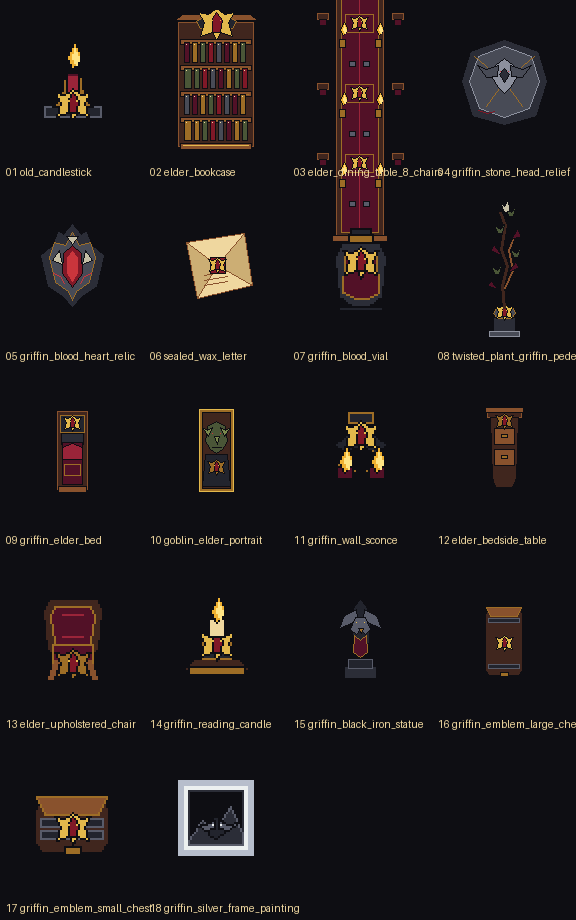
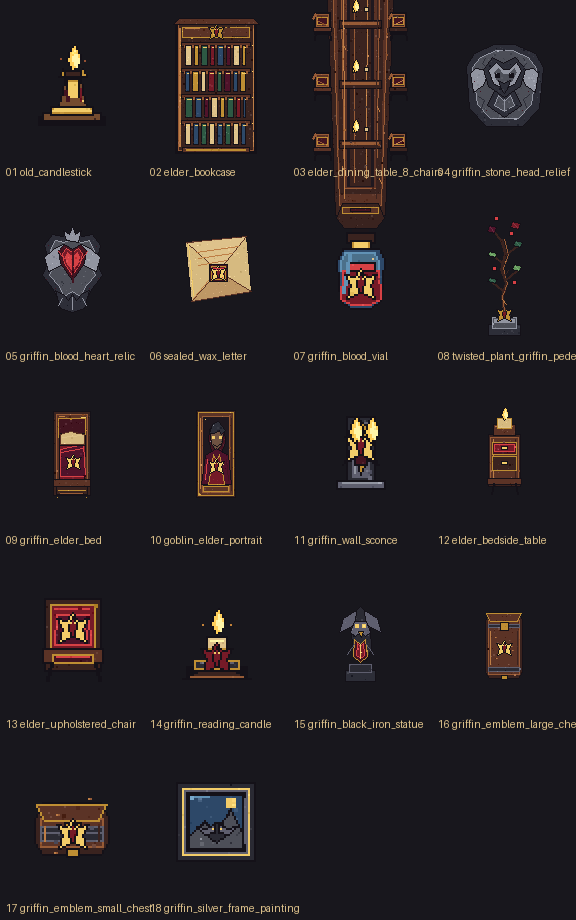
feat: improve elder room pixel assets

diff --git a/assets/map/rpg_maker/elder_room/_generate_elder_room.py b/assets/map/rpg_maker/elder_room/_generate_elder_room.py
@@ -1,4 +1,5 @@
 from pathlib import Path
+import random
 from PIL import Image, ImageDraw, ImageFont
 
 OUT = Path(__file__).parent
@@ -34,6 +35,53 @@ def poly(d, points, fill, outline=None, width=1):
 def pixel(d, x, y, fill):
     rect(d, (x, y, x, y), fill)
 
+def color_shift(color, amount):
+    return tuple(max(0, min(255, channel + amount)) for channel in color[:3]) + (color[3],)
+
+def pixel_texture(im, seed, density=0.14):
+    """Add deterministic clustered material pixels while preserving outlines and symbols."""
+    rng = random.Random(seed)
+    px = im.load()
+    w, h = im.size
+    clusters = max(10, int(w * h * density / 6))
+    for _ in range(clusters):
+        x = rng.randrange(w)
+        y = rng.randrange(h)
+        base = px[x, y]
+        if base[3] == 0:
+            continue
+        if max(base[:3]) < 48 or sum(base[:3]) < 100:
+            continue
+        size = 1 if rng.random() < 0.78 else 2
+        delta = rng.choice((-22, -16, -11, 10, 16, 23))
+        shade = color_shift(base, delta)
+        for oy in range(size):
+            for ox in range(size):
+                tx, ty = x + ox, y + oy
+                if tx < w and ty < h and px[tx, ty][3] > 0 and max(px[tx, ty][:3]) >= 48:
+                    px[tx, ty] = shade
+    return im
+
+def material_glints(im, seed):
+    """Place sparse one-to-three pixel glints on solid pixels for a hand-pixeled finish."""
+    rng = random.Random(seed + 991)
+    px = im.load()
+    w, h = im.size
+    for _ in range(max(5, (w * h) // 180)):
+        x = rng.randrange(w)
+        y = rng.randrange(h)
+        base = px[x, y]
+        if base[3] == 0 or sum(base[:3]) < 150:
+            continue
+        if rng.random() < 0.6:
+            px[x, y] = color_shift(base, rng.choice((24, 32, 40)))
+        if rng.random() < 0.35 and x + 1 < w and px[x + 1, y][3] > 0:
+            px[x + 1, y] = color_shift(base, 18)
+    return im
+
+def render_asset(fn, seed):
+    return material_glints(pixel_texture(fn(), seed), seed)
+
 def flame(d, x, y):
     poly(d, [(x, y + 8), (x + 2, y + 2), (x + 4, y), (x + 7, y + 5), (x + 6, y + 10), (x + 3, y + 13)], C["flame"], C["ink"])
     poly(d, [(x + 3, y + 8), (x + 4, y + 3), (x + 6, y + 8), (x + 5, y + 11)], C["flame_hi"])
@@ -47,25 +95,27 @@ def griffin_emblem(d, cx, cy, color=None):
 def draw_candlestick():
     im = canvas(48, 48); d = ImageDraw.Draw(im)
     rect(d, (7, 39, 40, 43), C["ink"]); rect(d, (9, 37, 38, 41), C["bronze"], C["ink"]); rect(d, (13, 34, 34, 38), C["gold"], C["ink"])
+    rect(d, (15, 35, 32, 36), C["gold_hi"]); pixel(d, 11, 40, C["bronze"]); pixel(d, 35, 40, C["wood_dark"])
     poly(d, [(17, 34), (19, 27), (20, 19), (28, 19), (29, 27), (31, 34)], C["bronze"], C["ink"])
-    rect(d, (21, 20, 27, 29), C["gold"], C["ink"]); rect(d, (22, 22, 26, 29), C["gold_hi"])
+    rect(d, (21, 20, 27, 29), C["gold"], C["ink"]); rect(d, (22, 22, 26, 29), C["gold_hi"]); line(d, [(20, 26), (21, 31)], C["red_dark"], 2); line(d, [(28, 25), (28, 31)], C["red"])
     poly(d, [(17, 19), (19, 15), (21, 17), (24, 14), (27, 17), (29, 15), (31, 19)], C["gold"], C["ink"])
     rect(d, (20, 16, 28, 19), C["wood_dark"], C["ink"]); flame(d, 21, 3); pixel(d, 18, 10, (190, 100, 57, 190)); pixel(d, 30, 11, (190, 100, 57, 190))
-    line(d, [(14, 36), (33, 36)], C["gold_hi"])
+    line(d, [(14, 36), (33, 36)], C["gold_hi"]); pixel(d, 18, 32, C["bronze"]); pixel(d, 29, 31, C["gold_hi"])
     return im
 
 def draw_bookcase():
     im = canvas(96, 144); d = ImageDraw.Draw(im)
     rect(d, (7, 7, 88, 139), C["ink"]); rect(d, (10, 10, 85, 136), C["wood_dark"], C["wood_hi"]); poly(d, [(5, 10), (11, 4), (85, 4), (91, 10)], C["wood"], C["ink"])
     rect(d, (14, 13, 81, 23), C["wood"], C["gold"]); griffin_emblem(d, 48, 18)
+    line(d, [(17, 14), (31, 14)], C["wood_light"]); line(d, [(64, 22), (78, 22)], C["wood_dark"])
     for y in (28, 54, 80, 106): rect(d, (13, y, 82, y + 4), C["wood"], C["ink"]); rect(d, (16, y + 3, 79, y + 5), C["wood_hi"])
     colors = [C["red"], C["blue"], C["gold"], C["leaf"], C["wine"], C["cream"]]
     for row, (y0, y1) in enumerate(((31, 51), (57, 77), (83, 103), (109, 130))):
         x = 17
         while x < 77:
             width = [5, 6, 4, 7][(x + row) % 4]; col = colors[(x + row * 2) % len(colors)]
-            rect(d, (x, y0, min(x + width, 77), y1), col, C["ink"]); line(d, [(x + 2, y0 + 2), (min(x + width - 1, 77), y0 + 2)], C["gold_hi"]); x += width + 3
-    rect(d, (14, 133, 81, 138), C["wood"], C["ink"]); rect(d, (18, 135, 77, 136), C["gold"]); line(d, [(11, 14), (11, 132)], C["wood_light"]); line(d, [(85, 14), (85, 132)], C["wood_light"])
+            rect(d, (x, y0, min(x + width, 77), y1), col, C["ink"]); line(d, [(x + 2, y0 + 2), (min(x + width - 1, 77), y0 + 2)], C["gold_hi"]); pixel(d, x, y1 - 2, C["wood_dark"]); x += width + 3
+    rect(d, (14, 133, 81, 138), C["wood"], C["ink"]); rect(d, (18, 135, 77, 136), C["gold"]); line(d, [(11, 14), (11, 132)], C["wood_light"], 2); line(d, [(85, 14), (85, 132)], C["wood_light"])
     for y in (29, 55, 81, 107): pixel(d, 12, y + 2, C["gold_hi"]); pixel(d, 84, y + 2, C["gold_hi"])
     return im
 
@@ -77,100 +127,145 @@ def chair(d, x, y, color=None):
 def draw_dining_table():
     im = canvas(96, 336); d = ImageDraw.Draw(im); rect(d, (40, 13, 56, 322), (30, 22, 25, 150))
     poly(d, [(22, 15), (74, 15), (83, 26), (73, 297), (23, 297), (13, 26)], C["wood_dark"], C["ink"]); poly(d, [(25, 18), (71, 18), (77, 29), (69, 287), (27, 287), (19, 29)], C["wood"], C["wood_hi"])
+    poly(d, [(29, 21), (67, 21), (72, 29), (68, 275), (28, 275), (24, 29)], C["wood_dark"])
+    poly(d, [(32, 24), (64, 24), (68, 30), (64, 270), (32, 270), (28, 30)], C["wood"], C["wood_hi"])
+    rect(d, (35, 25, 61, 268), C["deep"]); rect(d, (38, 27, 58, 267), C["wood_dark"])
+    line(d, [(42, 31), (42, 264)], C["wood_hi"]); line(d, [(55, 33), (54, 260)], C["wood_light"])
     for y in (42, 102, 162, 222): rect(d, (27, y, 69, y + 8), C["wood_dark"], C["ink"]); rect(d, (30, y + 2, 66, y + 4), C["wood_hi"])
-    for y in (34, 94, 154, 214): chair(d, 10, y); chair(d, 86, y)
+    for y in (34, 94, 154, 214): chair(d, 10, y, C["wood"]); chair(d, 86, y, C["wood_dark"])
+    for y in (36, 96, 156, 216):
+        line(d, [(5, y + 6), (15, y + 11)], C["wood_hi"]); line(d, [(81, y + 11), (91, y + 6)], C["wood_light"])
     poly(d, [(30, 285), (66, 285), (72, 300), (64, 310), (32, 310), (24, 300)], C["wood_dark"], C["ink"]); rect(d, (30, 289, 66, 295), C["wood"], C["gold"]); rect(d, (38, 290, 58, 293), C["red_dark"], C["ink"])
-    for y in (28, 88, 148, 208): rect(d, (40, y, 44, y + 6), C["gold"], C["ink"]); flame(d, 40, y - 7); rect(d, (52, y + 1, 56, y + 5), C["cream"], C["ink"])
+    for y in (28, 88, 148, 208):
+        rect(d, (40, y, 44, y + 6), C["gold"], C["ink"]); rect(d, (41, y + 1, 43, y + 4), C["gold_hi"]); flame(d, 40, y - 7)
+        rect(d, (52, y + 1, 56, y + 5), C["cream"], C["ink"]); pixel(d, 53, y + 2, C["gold_hi"])
     line(d, [(31, 26), (32, 280)], C["wood_light"]); line(d, [(65, 26), (64, 280)], C["wood_dark"])
+    for x, y in ((29, 54), (66, 74), (31, 126), (65, 188), (30, 248), (67, 260)):
+        line(d, [(x, y), (x + 2, y + 5)], C["wood_light"])
     return im
 
 def draw_stone_relief():
     im = canvas(96, 96); d = ImageDraw.Draw(im)
-    poly(d, [(9, 30), (18, 15), (39, 7), (57, 7), (78, 15), (87, 30), (82, 71), (65, 87), (31, 87), (14, 71)], C["stone_shadow"], C["ink"])
-    poly(d, [(16, 31), (24, 19), (40, 12), (56, 12), (72, 19), (80, 31), (75, 66), (62, 80), (34, 80), (21, 66)], C["stone"], C["stone_hi"])
-    poly(d, [(22, 29), (14, 34), (19, 50), (29, 42), (35, 32)], C["stone_hi"], C["ink"]); poly(d, [(74, 29), (82, 34), (77, 50), (67, 42), (61, 32)], C["stone_hi"], C["ink"])
-    poly(d, [(29, 31), (38, 20), (48, 26), (58, 20), (67, 31), (61, 48), (48, 57), (35, 48)], C["stone_shadow"], C["ink"])
-    poly(d, [(34, 33), (42, 27), (47, 34), (53, 34), (58, 27), (63, 33), (57, 46), (48, 51), (39, 46)], C["stone_hi"], C["ink"])
-    rect(d, (39, 35, 43, 39), C["ink"]); rect(d, (53, 35, 57, 39), C["ink"]); poly(d, [(44, 42), (52, 42), (48, 48)], C["stone_shadow"], C["ink"])
-    poly(d, [(40, 52), (48, 59), (56, 52), (62, 65), (48, 76), (34, 65)], C["stone_shadow"], C["ink"]); line(d, [(48, 58), (48, 70)], C["stone_hi"])
-    for x, y in ((25, 56), (71, 56), (31, 70), (65, 70), (18, 42), (78, 42)): pixel(d, x, y, C["gold"])
+    # Thick shield slab: the relief must read as a protruding stone object, not a flat emblem.
+    poly(d, [(10, 28), (18, 15), (38, 6), (58, 6), (79, 15), (87, 29), (83, 70), (66, 88), (30, 88), (13, 70)], C["stone_shadow"], C["ink"])
+    poly(d, [(16, 29), (24, 19), (40, 12), (56, 12), (72, 19), (80, 30), (75, 66), (62, 80), (34, 80), (21, 66)], C["stone"], C["stone_hi"])
+    poly(d, [(19, 30), (14, 35), (17, 54), (27, 47), (33, 32)], C["stone_hi"], C["ink"])
+    poly(d, [(77, 30), (82, 35), (79, 54), (69, 47), (63, 32)], C["stone_hi"], C["ink"])
+    # Brow, cheek and beak planes use separate stepped silhouettes for depth.
+    poly(d, [(27, 31), (36, 19), (47, 25), (59, 19), (69, 31), (64, 48), (48, 59), (32, 48)], C["stone_shadow"], C["ink"])
+    poly(d, [(32, 32), (40, 24), (47, 31), (53, 31), (60, 24), (65, 32), (59, 45), (48, 51), (37, 45)], C["stone_hi"], C["ink"])
+    poly(d, [(37, 34), (42, 29), (47, 35), (52, 35), (58, 29), (61, 34), (56, 43), (48, 47), (40, 43)], C["stone"], C["stone_hi"])
+    rect(d, (39, 35, 43, 39), C["ink"]); rect(d, (53, 35, 57, 39), C["ink"])
+    pixel(d, 40, 35, C["stone_hi"]); pixel(d, 54, 35, C["stone_hi"])
+    poly(d, [(42, 42), (48, 45), (54, 42), (51, 51), (48, 55), (45, 51)], C["stone_shadow"], C["ink"])
+    poly(d, [(38, 52), (48, 59), (58, 52), (65, 67), (48, 79), (31, 67)], C["stone_shadow"], C["ink"])
+    poly(d, [(42, 57), (48, 63), (54, 57), (58, 67), (48, 73), (38, 67)], C["stone"], C["stone_hi"])
+    line(d, [(48, 61), (48, 72)], C["stone_hi"])
+    # Chipped edges, cracks and ritual stains survive at native 96px scale.
+    line(d, [(22, 58), (28, 62), (25, 70)], C["stone_shadow"])
+    line(d, [(73, 56), (67, 61), (70, 69)], C["stone_shadow"])
+    line(d, [(29, 20), (26, 25), (29, 28)], C["stone_shadow"])
+    line(d, [(67, 20), (70, 25), (67, 29)], C["stone_shadow"])
+    for x, y in ((24, 53), (72, 53), (30, 72), (66, 72), (18, 43), (78, 43)):
+        pixel(d, x, y, C["red_dark"])
     return im
 
 def draw_heart_relic():
     im = canvas(96, 96); d = ImageDraw.Draw(im)
-    for box, fill in [((31, 12, 64, 15), (123, 55, 73, 140)), ((25, 18, 70, 75), (100, 28, 55, 80)), ((20, 29, 75, 68), (120, 38, 63, 45))]: rect(d, box, fill)
-    poly(d, [(48, 18), (37, 12), (25, 18), (22, 33), (29, 50), (48, 76), (67, 50), (74, 33), (71, 18), (59, 12)], C["iron"], C["ink"])
-    poly(d, [(48, 25), (39, 18), (30, 23), (29, 35), (35, 47), (48, 66), (61, 47), (67, 35), (66, 23), (57, 18)], C["red"], C["red_hi"])
-    poly(d, [(48, 27), (42, 22), (37, 26), (39, 36), (48, 45), (57, 35), (59, 25), (54, 22)], C["red_hi"])
-    line(d, [(48, 27), (48, 62)], C["red_dark"], 2); line(d, [(48, 38), (39, 34), (34, 28)], C["gold"]); line(d, [(48, 44), (58, 37), (64, 27)], C["gold"])
-    rect(d, (45, 5, 51, 20), C["gold"], C["ink"]); rect(d, (42, 7, 54, 11), C["gold_hi"], C["ink"])
-    for x, y in ((18, 22), (78, 28), (20, 61), (75, 58), (31, 79), (66, 79)): pixel(d, x, y, C["red_hi"])
-    rect(d, (26, 78, 70, 85), C["stone_shadow"], C["ink"]); rect(d, (32, 73, 64, 80), C["stone"], C["stone_hi"])
+    # A stone shell with a real heart-shaped opening and a suspended blood core.
+    poly(d, [(48, 10), (38, 14), (28, 12), (20, 23), (24, 39), (18, 53), (29, 67), (36, 82), (48, 77), (60, 82), (67, 67), (78, 53), (72, 39), (76, 23), (68, 12), (58, 14)], C["stone_shadow"], C["ink"])
+    poly(d, [(48, 17), (39, 20), (31, 18), (26, 28), (30, 42), (25, 53), (34, 63), (40, 74), (48, 69), (56, 74), (62, 63), (71, 53), (66, 42), (70, 28), (65, 18), (57, 20)], C["stone"], C["stone_hi"])
+    # Wing-like stone plates fold inward around the core.
+    poly(d, [(30, 26), (20, 35), (24, 49), (37, 43), (44, 29), (39, 22)], C["stone_hi"], C["ink"])
+    poly(d, [(66, 26), (76, 35), (72, 49), (59, 43), (52, 29), (57, 22)], C["stone_hi"], C["ink"])
+    poly(d, [(48, 27), (40, 22), (34, 28), (36, 41), (48, 58), (60, 41), (62, 28), (56, 22)], C["red_dark"], C["ink"])
+    poly(d, [(48, 30), (42, 26), (38, 31), (40, 41), (48, 53), (56, 41), (58, 31), (54, 26)], C["red"], C["red_hi"])
+    poly(d, [(48, 34), (43, 30), (41, 35), (43, 42), (48, 48), (53, 42), (55, 35), (53, 30)], C["red_hi"])
+    line(d, [(48, 29), (48, 60)], C["red_dark"], 2)
+    line(d, [(47, 40), (39, 35), (34, 29)], C["red_hi"])
+    line(d, [(49, 44), (57, 37), (63, 29)], C["red_hi"])
+    # Crown-like bone prongs and claw base make the relic feel assembled, not like a gem.
+    poly(d, [(42, 18), (39, 8), (45, 12), (48, 4), (51, 12), (57, 8), (54, 20)], C["stone_hi"], C["ink"])
+    poly(d, [(31, 68), (39, 72), (44, 78), (48, 72), (52, 78), (57, 72), (65, 68), (60, 86), (48, 90), (36, 86)], C["stone_shadow"], C["ink"])
+    line(d, [(48, 75), (48, 87)], C["stone_hi"])
+    line(d, [(38, 76), (34, 83)], C["stone_hi"]); line(d, [(58, 76), (62, 83)], C["stone_hi"])
+    for x, y in ((24, 23), (72, 24), (22, 57), (74, 56), (31, 66), (65, 66)):
+        pixel(d, x, y, C["red_dark"])
     return im
 
 def draw_letter():
     im = canvas(96, 96); d = ImageDraw.Draw(im)
     poly(d, [(17, 20), (78, 14), (83, 69), (23, 79)], C["paper"], C["ink"]); poly(d, [(18, 20), (50, 49), (78, 14)], C["cream"], C["wood"]); poly(d, [(23, 79), (50, 49), (83, 69)], (190, 151, 101, 255), C["wood"])
+    line(d, [(20, 22), (25, 73)], C["gold_hi"]); line(d, [(77, 18), (80, 64)], C["paper"]); line(d, [(25, 76), (46, 51)], C["wood_light"])
     line(d, [(28, 30), (70, 24)], C["wood_light"]); line(d, [(30, 36), (64, 31)], C["wood_light"]); line(d, [(30, 43), (58, 38)], C["wood_light"])
-    rect(d, (41, 42, 59, 59), C["red_dark"], C["ink"]); rect(d, (43, 44, 57, 57), C["red"], C["gold"]); griffin_emblem(d, 50, 51, C["gold_hi"]); pixel(d, 43, 58, C["gold"]); pixel(d, 57, 58, C["gold"])
+    rect(d, (41, 42, 59, 59), C["red_dark"], C["ink"]); rect(d, (43, 44, 57, 57), C["red"], C["gold"]); griffin_emblem(d, 50, 51, C["gold_hi"]); pixel(d, 43, 58, C["gold"]); pixel(d, 57, 58, C["gold"]); line(d, [(45, 46), (55, 46)], C["red_hi"]); pixel(d, 54, 55, C["red_hi"])
     return im
 
 def draw_vial():
     im = canvas(48, 48); d = ImageDraw.Draw(im)
-    rect(d, (17, 5, 31, 10), C["wood_dark"], C["ink"]); rect(d, (19, 9, 29, 14), C["gold"], C["ink"])
+    rect(d, (17, 5, 31, 10), C["wood_dark"], C["ink"]); rect(d, (19, 9, 29, 14), C["gold"], C["ink"]); rect(d, (21, 10, 27, 12), C["gold_hi"])
     poly(d, [(15, 13), (33, 13), (36, 19), (34, 39), (29, 43), (19, 43), (14, 39), (12, 19)], C["blue"], C["ink"])
+    poly(d, [(16, 15), (31, 15), (33, 20), (31, 38), (27, 40), (20, 40), (16, 37), (14, 20)], (75, 112, 138, 255), C["blue_hi"])
     poly(d, [(15, 24), (33, 24), (34, 38), (29, 41), (19, 41), (14, 38)], C["red"], C["red_hi"]); rect(d, (17, 20, 31, 24), C["red_hi"], C["ink"])
-    line(d, [(18, 16), (15, 35)], C["blue_hi"]); griffin_emblem(d, 24, 31, C["gold_hi"])
+    line(d, [(18, 16), (15, 35)], C["blue_hi"], 2); pixel(d, 30, 18, C["cream"]); pixel(d, 19, 27, C["red_hi"]); pixel(d, 28, 34, C["red_dark"]); griffin_emblem(d, 24, 31, C["gold_hi"])
     return im
 
 def draw_plant():
     im = canvas(48, 144); d = ImageDraw.Draw(im)
-    rect(d, (8, 126, 40, 137), C["stone_shadow"], C["ink"]); rect(d, (12, 119, 36, 130), C["stone"], C["stone_hi"]); poly(d, [(16, 119), (20, 112), (28, 112), (32, 119)], C["iron"], C["ink"]); griffin_emblem(d, 24, 116, C["gold"])
+    rect(d, (8, 126, 40, 137), C["stone_shadow"], C["ink"]); rect(d, (12, 119, 36, 130), C["stone"], C["stone_hi"]); rect(d, (14, 121, 34, 124), C["stone_hi"]); poly(d, [(16, 119), (20, 112), (28, 112), (32, 119)], C["iron"], C["ink"]); griffin_emblem(d, 24, 116, C["gold"])
     line(d, [(24, 113), (22, 98), (26, 85), (21, 71), (25, 55), (21, 41)], C["wood_dark"], 3); line(d, [(24, 112), (22, 98), (27, 85), (23, 70), (28, 56), (24, 41)], C["wood_hi"])
+    line(d, [(26, 106), (22, 101)], C["wood_light"]); line(d, [(24, 78), (28, 72)], C["wood_dark"]); pixel(d, 24, 92, C["red_dark"]); pixel(d, 25, 63, C["wood_light"])
     for a, b in [((23, 93), (12, 84)), ((25, 82), (37, 72)), ((24, 67), (13, 57)), ((26, 56), (38, 47)), ((22, 44), (13, 32))]: line(d, [a, b], C["wood_dark"], 2)
     leaves = [((9, 79), (17, 85), C["leaf"]), ((34, 66), (41, 73), C["leaf_hi"]), ((9, 53), (17, 59), C["leaf_hi"]), ((35, 42), (42, 49), C["leaf"]), ((9, 27), (16, 35), C["wine"]), ((32, 23), (40, 31), C["red"])]
-    for (x0, y0), (x1, y1), col in leaves: poly(d, [(x0, y0), (x1, y0 + 2), (x1 - 2, y1), (x0 - 2, y1 - 2)], col, C["ink"])
+    for (x0, y0), (x1, y1), col in leaves:
+        poly(d, [(x0, y0), (x1, y0 + 2), (x1 - 2, y1), (x0 - 2, y1 - 2)], col, C["ink"])
+        line(d, [(x0 + 1, y0 + 2), (x1 - 3, y1 - 2)], color_shift(col, 28))
     for x, y in ((16, 20), (31, 35), (14, 70), (34, 84)): rect(d, (x - 2, y - 2, x + 2, y + 2), C["red_hi"], C["ink"])
     return im
 
 def draw_bed():
     im = canvas(48, 96); d = ImageDraw.Draw(im)
     rect(d, (5, 5, 42, 89), C["wood_dark"], C["ink"]); rect(d, (8, 8, 39, 86), C["wood"], C["wood_hi"]); rect(d, (10, 12, 37, 31), C["red_dark"], C["gold"])
+    line(d, [(11, 10), (16, 10)], C["wood_light"]); line(d, [(33, 11), (37, 11)], C["gold_hi"]); pixel(d, 9, 20, C["wood_dark"]); pixel(d, 38, 24, C["wood_light"])
     poly(d, [(11, 29), (37, 29), (36, 73), (11, 73)], C["red"], C["ink"]); poly(d, [(12, 43), (35, 38), (37, 70), (12, 70)], C["wine"], C["red_hi"])
-    rect(d, (12, 27, 36, 39), C["cream"], C["ink"]); poly(d, [(12, 28), (22, 25), (36, 28), (36, 38), (12, 38)], C["paper"], C["wood"]); griffin_emblem(d, 25, 56, C["gold_hi"])
-    rect(d, (5, 73, 42, 80), C["wood"], C["ink"]); rect(d, (8, 80, 39, 88), C["wood_dark"], C["ink"]); line(d, [(10, 84), (37, 84)], C["gold"]); pixel(d, 9, 91, C["gold"]); pixel(d, 38, 91, C["gold"])
+    rect(d, (12, 27, 36, 39), C["cream"], C["ink"]); poly(d, [(12, 28), (22, 25), (36, 28), (36, 38), (12, 38)], C["paper"], C["wood"]); line(d, [(14, 31), (33, 29)], C["cream"]); line(d, [(13, 46), (34, 42)], C["red_hi"]); line(d, [(13, 61), (32, 57)], C["red_dark"]); griffin_emblem(d, 25, 56, C["gold_hi"])
+    rect(d, (5, 73, 42, 80), C["wood"], C["ink"]); rect(d, (8, 80, 39, 88), C["wood_dark"], C["ink"]); line(d, [(10, 84), (37, 84)], C["gold"]); line(d, [(12, 87), (34, 87)], C["wood_hi"]); pixel(d, 9, 91, C["gold"]); pixel(d, 38, 91, C["gold"])
     return im
 
 def draw_portrait():
     im = canvas(48, 96); d = ImageDraw.Draw(im)
     rect(d, (4, 4, 43, 91), C["wood_dark"], C["ink"]); rect(d, (6, 6, 41, 89), C["wood"], C["gold"]); rect(d, (10, 10, 37, 86), C["deep"], C["wood_hi"])
+    line(d, [(8, 12), (8, 82)], C["wood_light"]); line(d, [(39, 12), (39, 84)], C["wood_dark"]); pixel(d, 13, 13, C["gold_hi"]); pixel(d, 34, 84, C["bronze"])
     poly(d, [(16, 34), (17, 23), (24, 17), (32, 23), (33, 36), (29, 47), (20, 47)], C["red_dark"], C["ink"]); poly(d, [(18, 29), (21, 21), (27, 21), (31, 28), (29, 39), (24, 44), (19, 38)], (110, 82, 66, 255), C["ink"])
-    poly(d, [(17, 27), (20, 18), (26, 15), (33, 24), (29, 28), (27, 24), (21, 27)], C["stone_shadow"], C["ink"]); rect(d, (20, 30, 22, 32), C["gold_hi"]); rect(d, (27, 30, 29, 32), C["gold_hi"]); line(d, [(21, 38), (25, 40), (29, 37)], C["ink"])
-    poly(d, [(13, 49), (24, 42), (36, 49), (39, 78), (9, 78)], C["wine"], C["ink"]); poly(d, [(21, 48), (24, 55), (27, 48), (32, 78), (16, 78)], C["red"], C["gold"]); griffin_emblem(d, 24, 60, C["gold_hi"]); rect(d, (11, 80, 36, 85), C["wood"], C["gold"])
+    poly(d, [(17, 27), (20, 18), (26, 15), (33, 24), (29, 28), (27, 24), (21, 27)], C["stone_shadow"], C["ink"]); pixel(d, 21, 19, C["stone_hi"]); pixel(d, 28, 22, C["stone_hi"]); rect(d, (20, 30, 22, 32), C["gold_hi"]); rect(d, (27, 30, 29, 32), C["gold_hi"]); line(d, [(21, 38), (25, 40), (29, 37)], C["ink"]); pixel(d, 18, 35, C["stone_hi"]); pixel(d, 29, 35, C["stone_shadow"])
+    poly(d, [(13, 49), (24, 42), (36, 49), (39, 78), (9, 78)], C["wine"], C["ink"]); poly(d, [(21, 48), (24, 55), (27, 48), (32, 78), (16, 78)], C["red"], C["gold"]); line(d, [(15, 53), (13, 73)], C["red_hi"]); line(d, [(34, 53), (36, 74)], C["red_dark"]); griffin_emblem(d, 24, 60, C["gold_hi"]); rect(d, (11, 80, 36, 85), C["wood"], C["gold"])
     return im
 
 def draw_sconce():
     im = canvas(48, 48); d = ImageDraw.Draw(im)
-    rect(d, (17, 5, 31, 39), C["iron"], C["ink"]); poly(d, [(24, 7), (18, 14), (20, 21), (15, 29), (21, 26), (24, 34), (27, 26), (33, 29), (28, 21), (30, 14)], C["gold"], C["ink"])
-    rect(d, (21, 18, 27, 29), C["red_dark"], C["ink"]); griffin_emblem(d, 24, 20, C["gold_hi"]); flame(d, 18, 5); flame(d, 26, 5); rect(d, (12, 37, 36, 41), C["iron_hi"], C["ink"])
+    rect(d, (17, 5, 31, 39), C["iron"], C["ink"]); rect(d, (20, 8, 28, 35), C["iron_hi"]); line(d, [(21, 10), (21, 33)], C["stone_hi"])
+    poly(d, [(24, 7), (18, 14), (20, 21), (15, 29), (21, 26), (24, 34), (27, 26), (33, 29), (28, 21), (30, 14)], C["gold"], C["ink"])
+    line(d, [(19, 17), (23, 12)], C["gold_hi"]); line(d, [(29, 17), (25, 12)], C["bronze"])
+    rect(d, (21, 18, 27, 29), C["red_dark"], C["ink"]); rect(d, (22, 19, 26, 24), C["red"], C["red_hi"]); griffin_emblem(d, 24, 20, C["gold_hi"]); flame(d, 18, 5); flame(d, 26, 5); rect(d, (12, 37, 36, 41), C["iron_hi"], C["ink"]); line(d, [(15, 38), (33, 38)], C["stone_hi"])
     return im
 
 def draw_bedside_table():
     im = canvas(48, 96); d = ImageDraw.Draw(im)
-    rect(d, (8, 28, 40, 80), C["wood_dark"], C["ink"]); rect(d, (10, 31, 38, 76), C["wood"], C["wood_hi"]); rect(d, (12, 36, 36, 48), C["red_dark"], C["gold"]); rect(d, (12, 50, 36, 64), C["wood_dark"], C["gold"])
+    rect(d, (8, 28, 40, 80), C["wood_dark"], C["ink"]); rect(d, (10, 31, 38, 76), C["wood"], C["wood_hi"]); line(d, [(13, 33), (13, 72)], C["wood_light"]); line(d, [(35, 33), (35, 71)], C["wood_dark"])
+    rect(d, (12, 36, 36, 48), C["red_dark"], C["gold"]); rect(d, (14, 38, 34, 45), C["red"], C["red_hi"]); rect(d, (12, 50, 36, 64), C["wood_dark"], C["gold"])
     rect(d, (21, 40, 27, 43), C["gold_hi"], C["ink"]); rect(d, (21, 55, 27, 58), C["gold_hi"], C["ink"]); rect(d, (7, 72, 41, 78), C["wood"], C["ink"]); line(d, [(13, 77), (11, 88)], C["ink"], 2); line(d, [(35, 77), (37, 88)], C["ink"], 2)
-    rect(d, (13, 18, 35, 29), C["wood"], C["ink"]); rect(d, (17, 12, 31, 22), C["cream"], C["gold"]); flame(d, 21, 1)
+    rect(d, (13, 18, 35, 29), C["wood"], C["ink"]); line(d, [(15, 20), (32, 20)], C["wood_light"]); rect(d, (17, 12, 31, 22), C["cream"], C["gold"]); rect(d, (19, 14, 29, 20), C["paper"]); flame(d, 21, 1)
     return im
 
 def draw_chair():
     im = canvas(48, 48); d = ImageDraw.Draw(im)
-    rect(d, (10, 4, 38, 40), C["wood_dark"], C["ink"]); rect(d, (13, 7, 35, 30), C["red"], C["gold"]); poly(d, [(16, 12), (32, 12), (33, 27), (15, 27)], C["wine"], C["red_hi"]); griffin_emblem(d, 24, 19, C["gold_hi"])
-    rect(d, (9, 29, 39, 36), C["wood"], C["ink"]); rect(d, (14, 32, 34, 36), C["red_dark"], C["gold"]); line(d, [(13, 36), (11, 45)], C["ink"], 2); line(d, [(35, 36), (37, 45)], C["ink"], 2)
+    rect(d, (10, 4, 38, 40), C["wood_dark"], C["ink"]); rect(d, (13, 7, 35, 30), C["red"], C["gold"]); line(d, [(15, 9), (32, 9)], C["red_hi"]); poly(d, [(16, 12), (32, 12), (33, 27), (15, 27)], C["wine"], C["red_hi"]); line(d, [(17, 15), (17, 24)], C["red_dark"]); line(d, [(30, 15), (31, 24)], C["red_hi"]); griffin_emblem(d, 24, 19, C["gold_hi"])
+    rect(d, (9, 29, 39, 36), C["wood"], C["ink"]); rect(d, (14, 32, 34, 36), C["red_dark"], C["gold"]); line(d, [(16, 33), (32, 33)], C["red_hi"]); line(d, [(13, 36), (11, 45)], C["ink"], 2); line(d, [(35, 36), (37, 45)], C["ink"], 2)
     return im
 
 def draw_reading_candle():
     im = canvas(48, 48); d = ImageDraw.Draw(im)
-    rect(d, (9, 38, 39, 42), C["ink"]); rect(d, (13, 35, 35, 39), C["iron"], C["gold"]); rect(d, (19, 23, 29, 36), C["cream"], C["ink"]); rect(d, (20, 29, 28, 36), C["paper"], C["gold"]); griffin_emblem(d, 24, 34, C["red"]); flame(d, 21, 9); pixel(d, 17, 17, (242, 160, 65, 200)); pixel(d, 31, 17, (242, 160, 65, 200)); poly(d, [(7, 44), (16, 40), (33, 40), (41, 44)], C["wood_dark"], C["ink"]); line(d, [(11, 43), (37, 43)], C["wood_hi"])
+    rect(d, (9, 38, 39, 42), C["ink"]); rect(d, (13, 35, 35, 39), C["iron"], C["gold"]); line(d, [(16, 36), (32, 36)], C["iron_hi"]); rect(d, (19, 23, 29, 36), C["cream"], C["ink"]); rect(d, (20, 29, 28, 36), C["paper"], C["gold"]); line(d, [(21, 25), (27, 25)], C["flame_hi"]); griffin_emblem(d, 24, 34, C["red"]); flame(d, 21, 9); pixel(d, 17, 17, (242, 160, 65, 200)); pixel(d, 31, 17, (242, 160, 65, 200)); poly(d, [(7, 44), (16, 40), (33, 40), (41, 44)], C["wood_dark"], C["ink"]); line(d, [(11, 43), (37, 43)], C["wood_hi"])
     return im
 
 def draw_statue():
@@ -178,7 +273,7 @@ def draw_statue():
     rect(d, (9, 80, 39, 91), C["stone_shadow"], C["ink"]); rect(d, (13, 74, 35, 82), C["iron"], C["iron_hi"])
     poly(d, [(24, 16), (17, 23), (14, 39), (17, 58), (22, 70), (30, 70), (35, 58), (34, 39), (31, 23)], C["iron"], C["ink"]); poly(d, [(20, 20), (7, 28), (3, 42), (14, 37), (19, 31)], C["iron_hi"], C["ink"]); poly(d, [(28, 20), (41, 28), (45, 42), (34, 37), (29, 31)], C["iron_hi"], C["ink"])
     poly(d, [(18, 31), (14, 42), (19, 46), (24, 42), (29, 46), (34, 42), (30, 31)], C["iron_hi"], C["ink"]); rect(d, (19, 34, 22, 37), C["gold_hi"]); rect(d, (26, 34, 29, 37), C["gold_hi"]); poly(d, [(22, 41), (27, 41), (25, 47)], C["gold"], C["ink"])
-    poly(d, [(18, 49), (24, 54), (29, 49), (31, 66), (24, 72), (17, 66)], C["red_dark"], C["gold"]); line(d, [(24, 54), (24, 68)], C["gold_hi"]); line(d, [(18, 54), (11, 64)], C["iron_hi"]); line(d, [(30, 54), (37, 64)], C["iron_hi"])
+    poly(d, [(18, 49), (24, 54), (29, 49), (31, 66), (24, 72), (17, 66)], C["red_dark"], C["gold"]); poly(d, [(21, 53), (24, 56), (27, 53), (28, 65), (24, 68), (20, 65)], C["red"], C["red_hi"]); line(d, [(24, 54), (24, 68)], C["gold_hi"]); line(d, [(18, 54), (11, 64)], C["iron_hi"]); line(d, [(30, 54), (37, 64)], C["iron_hi"]); pixel(d, 16, 39, C["stone_hi"]); pixel(d, 32, 45, C["iron_hi"])
     return im
 
 def draw_chest(w, h, large=True):
@@ -187,13 +282,15 @@ def draw_chest(w, h, large=True):
     rect(d, (x0 + 3, y0 + 8, x1 - 3, y1 - 4), C["wood"], C["wood_hi"]); poly(d, [(x0 + 1, y0 + 1), (x1 - 1, y0 + 1), (x1 - 5, y0 + 9), (x0 + 5, y0 + 9)], C["wood"], C["gold"])
     rect(d, (x0 + 3, y0 + 12, x1 - 3, y0 + 15), C["iron"], C["iron_hi"]); rect(d, (x0 + 3, y1 - 11, x1 - 3, y1 - 7), C["iron"], C["iron_hi"]); rect(d, (w // 2 - 4, y0 + 10, w // 2 + 4, y0 + 18), C["gold"], C["ink"]); griffin_emblem(d, w // 2, (y0 + y1) // 2 + 3, C["gold_hi"]); rect(d, (w // 2 - 3, y1 - 3, w // 2 + 3, y1 + 1), C["gold"], C["ink"])
     line(d, [(x0 + 5, y0 + 19), (x0 + 5, y1 - 14)], C["wood_light"]); line(d, [(x1 - 5, y0 + 19), (x1 - 5, y1 - 14)], C["wood_dark"])
+    for x, y in ((x0 + 10, y0 + 25), (x1 - 11, y0 + 34), (x0 + 11, y1 - 20), (x1 - 10, y1 - 28)):
+        pixel(d, x, y, C["wood_light"]); pixel(d, x + 1, y, C["wood_hi"])
     return im
 
 def draw_painting():
     im = canvas(48, 48); d = ImageDraw.Draw(im)
-    rect(d, (4, 4, 43, 43), C["iron"], C["ink"]); rect(d, (7, 7, 40, 40), C["iron_hi"], C["gold_hi"]); rect(d, (10, 10, 37, 37), C["blue"], C["ink"])
+    rect(d, (4, 4, 43, 43), C["iron"], C["ink"]); rect(d, (7, 7, 40, 40), C["iron_hi"], C["gold_hi"]); rect(d, (9, 9, 38, 38), C["gold"], C["ink"]); rect(d, (10, 10, 37, 37), C["blue"], C["ink"]); line(d, [(11, 11), (20, 11)], C["blue_hi"]); line(d, [(38, 12), (38, 34)], C["iron_hi"])
     poly(d, [(10, 33), (18, 23), (24, 29), (31, 17), (37, 33)], C["stone_shadow"], C["ink"]); poly(d, [(10, 37), (10, 31), (18, 24), (23, 29), (31, 18), (37, 29), (37, 37)], C["stone"], C["ink"]); rect(d, (29, 12, 33, 16), C["gold_hi"])
-    poly(d, [(23, 24), (19, 27), (20, 31), (24, 34), (28, 31), (29, 27), (26, 24)], C["iron"], C["ink"]); poly(d, [(23, 25), (18, 27), (14, 26), (18, 30), (23, 29)], C["iron_hi"], C["ink"]); poly(d, [(25, 25), (30, 27), (34, 26), (30, 30), (25, 29)], C["iron_hi"], C["ink"]); pixel(d, 22, 27, C["gold_hi"]); pixel(d, 26, 27, C["gold_hi"])
+    poly(d, [(23, 24), (19, 27), (20, 31), (24, 34), (28, 31), (29, 27), (26, 24)], C["iron"], C["ink"]); poly(d, [(23, 25), (18, 27), (14, 26), (18, 30), (23, 29)], C["iron_hi"], C["ink"]); poly(d, [(25, 25), (30, 27), (34, 26), (30, 30), (25, 29)], C["iron_hi"], C["ink"]); pixel(d, 22, 27, C["gold_hi"]); pixel(d, 26, 27, C["gold_hi"]); pixel(d, 16, 32, C["stone_hi"]); pixel(d, 31, 34, C["stone_shadow"])
     return im
 
 ASSETS = [
@@ -209,11 +306,11 @@ ASSETS = [
 def contact_sheet():
     thumb_w, thumb_h = 144, 184; sheet = Image.new("RGBA", (thumb_w * 4, thumb_h * 5), (24, 23, 29, 255)); font = ImageFont.load_default()
     for idx, (name, fn) in enumerate(ASSETS):
-        im = fn(); scale = max(1, min((thumb_w - 20) // im.width, (thumb_h - 28) // im.height)); preview = im.resize((im.width * scale, im.height * scale), Image.Resampling.NEAREST)
+        im = render_asset(fn, idx + 1); scale = max(1, min((thumb_w - 20) // im.width, (thumb_h - 28) // im.height)); preview = im.resize((im.width * scale, im.height * scale), Image.Resampling.NEAREST)
         x = (idx % 4) * thumb_w + (thumb_w - preview.width) // 2; y = (idx // 4) * thumb_h + 8 + (thumb_h - 28 - preview.height) // 2; sheet.alpha_composite(preview, (x, y)); d = ImageDraw.Draw(sheet)
         d.text(((idx % 4) * thumb_w + 6, (idx // 4) * thumb_h + thumb_h - 18), f"{idx + 1:02d} {name[3:-4]}", fill=C["cream"], font=font)
     sheet.save(OUT / "elder_room_contact_sheet.png", "PNG", optimize=True)
 
 if __name__ == "__main__":
-    for name, fn in ASSETS: save(fn(), name)
+    for idx, (name, fn) in enumerate(ASSETS): save(render_asset(fn, idx + 1), name)
     contact_sheet()

diff --git a/assets/map/rpg_maker/elder_room/README.md b/assets/map/rpg_maker/elder_room/README.md
@@ -8,4 +8,4 @@ The files use exact RPG Maker tile footprints from the prompts. They are rendere
 
 The generated images are derived assets. The source PDF remains outside the repository and is not copied into the project.
 
-The pixel drawings can be regenerated with `python tools/art/generate_elder_room_assets.py` from the repository root. The generator is an independent redraw and does not read the earlier elder-room outputs. The generator keeps the requested RPG Maker footprints, RGBA transparency, nearest-neighbor edges, and the shared elder-room palette.
+The pixel drawings can be regenerated with `python assets/map/rpg_maker/elder_room/_generate_elder_room.py` from the repository root. The generator is an independent redraw and does not read the earlier elder-room outputs. The generator keeps the requested RPG Maker footprints, RGBA transparency, nearest-neighbor edges, and the shared elder-room palette.
